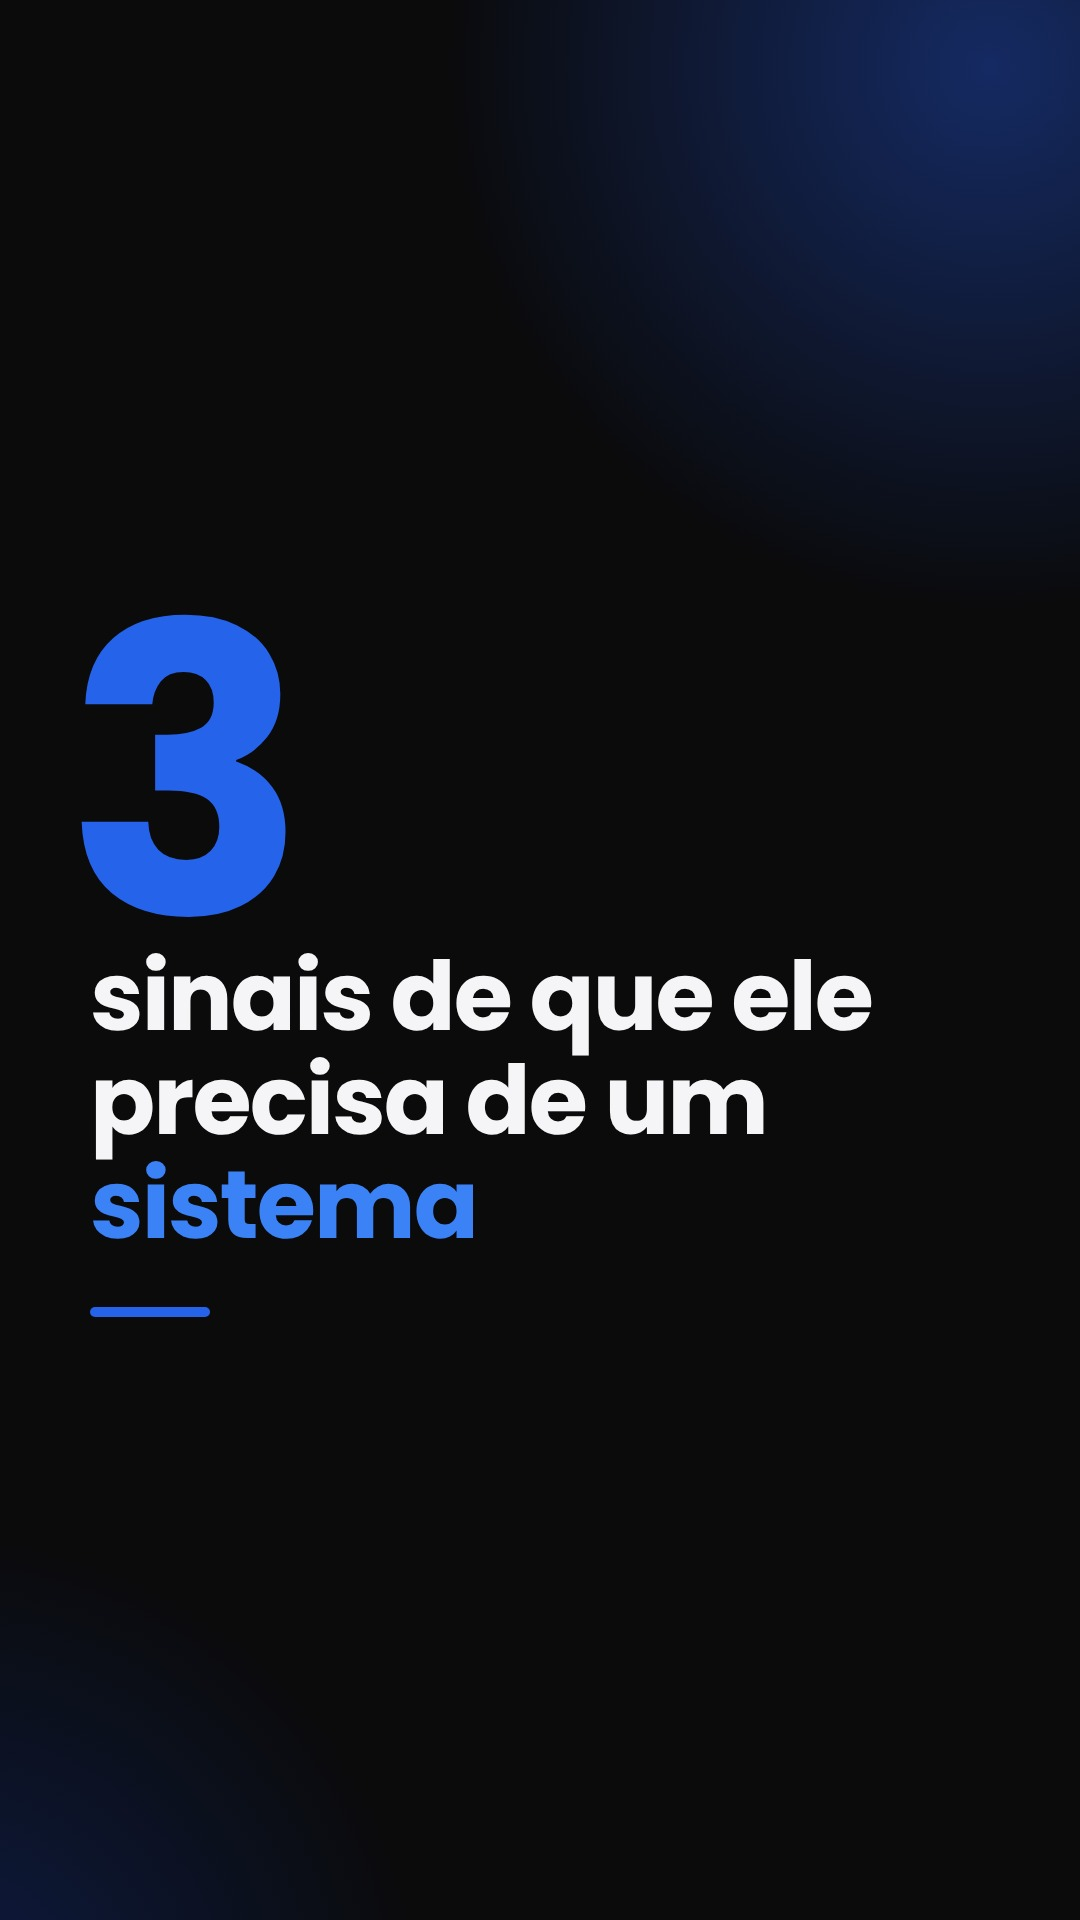
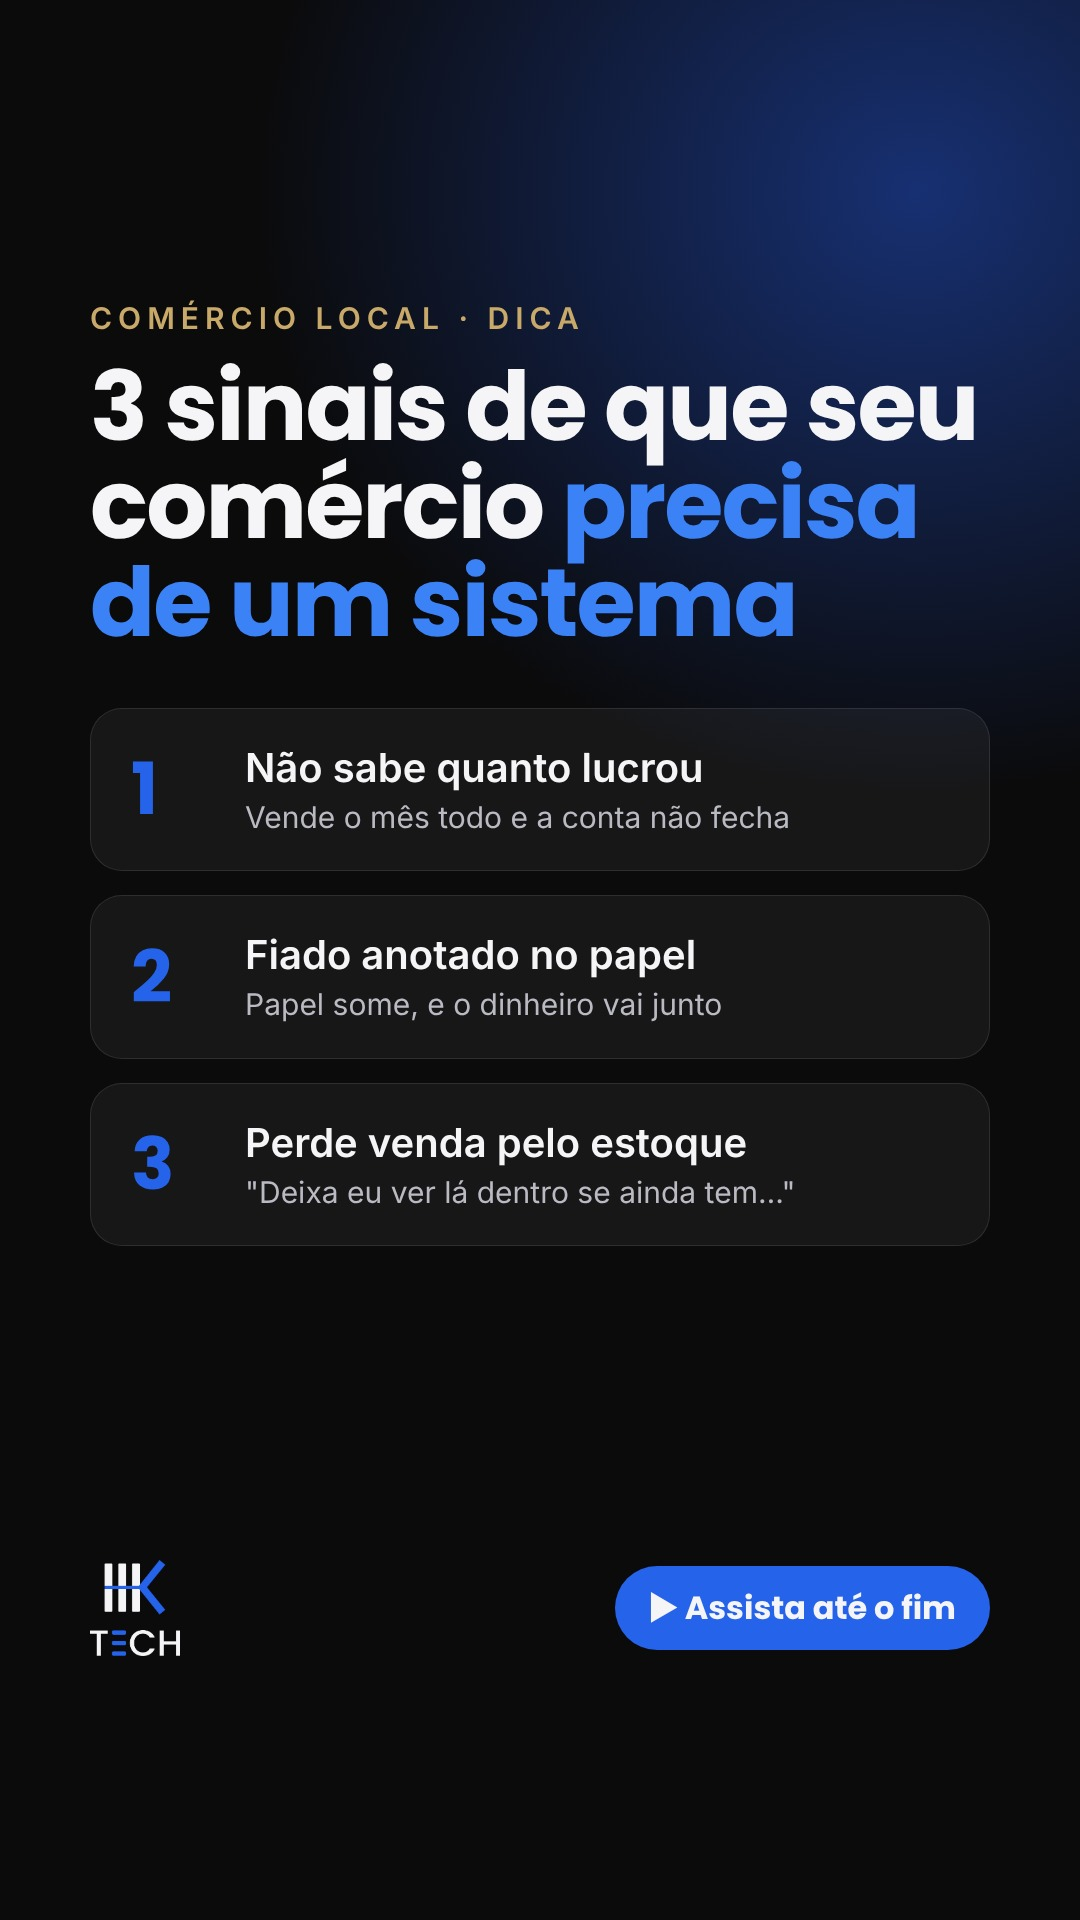
Add informative cover for 3 sinais Reels
Claude-Session: https://claude.ai/code/session_017f6brravdrtJZyh6CoB7Yt

diff --git a/marketing/instagram/reel-3sinais/capa.html b/marketing/instagram/reel-3sinais/capa.html
@@ -1,0 +1,28 @@
+<!DOCTYPE html><html><head><meta charset="utf-8"><style>
+*{margin:0;padding:0;box-sizing:border-box}
+body{background:#000}
+/* No grade do perfil o Instagram mostra o centro (1080x1440): tudo importante fica entre y 240 e 1680 */
+.c{position:relative;width:1080px;height:1920px;overflow:hidden;background:radial-gradient(1100px 1000px at 85% 10%,#173072 0%,#0B0B0C 60%);color:#F5F5F7;font-family:'Inter';padding:300px 90px 0}
+.tag{font-size:30px;letter-spacing:.2em;color:#C8A96A;font-weight:600}
+h1{font-family:'Poppins';font-weight:700;font-size:96px;line-height:1.02;letter-spacing:-.02em;margin-top:22px}
+h1 b{color:#3B82F6}
+.list{margin-top:56px;display:flex;flex-direction:column;gap:24px}
+.it{display:flex;gap:30px;align-items:center;background:rgba(255,255,255,.05);border:1px solid rgba(255,255,255,.10);border-radius:32px;padding:34px 40px}
+.n{font-family:'Poppins';font-weight:700;font-size:72px;color:#2563EB;width:84px;flex:none;line-height:1}
+.t{font-size:40px;line-height:1.25;font-weight:600}
+.t span{display:block;font-size:30px;font-weight:400;color:#b9bac2;margin-top:6px}
+.foot{position:absolute;left:90px;right:90px;top:1560px;display:flex;justify-content:space-between;align-items:center}
+.mark{height:96px}
+.play{font-family:'Poppins';font-size:32px;font-weight:600;background:#2563EB;border-radius:999px;padding:18px 34px}
+</style></head><body>
+<div class="c" id="capa">
+ <div class="tag">COMÉRCIO LOCAL · DICA</div>
+ <h1>3 sinais de que seu comércio <b>precisa de um sistema</b></h1>
+ <div class="list">
+  <div class="it"><div class="n">1</div><div class="t">Não sabe quanto lucrou<span>Vende o mês todo e a conta não fecha</span></div></div>
+  <div class="it"><div class="n">2</div><div class="t">Fiado anotado no papel<span>Papel some, e o dinheiro vai junto</span></div></div>
+  <div class="it"><div class="n">3</div><div class="t">Perde venda pelo estoque<span>"Deixa eu ver lá dentro se ainda tem…"</span></div></div>
+ </div>
+ <div class="foot"><img class="mark" src="../mark.png"><span class="play">▶ Assista até o fim</span></div>
+</div>
+</body></html>
